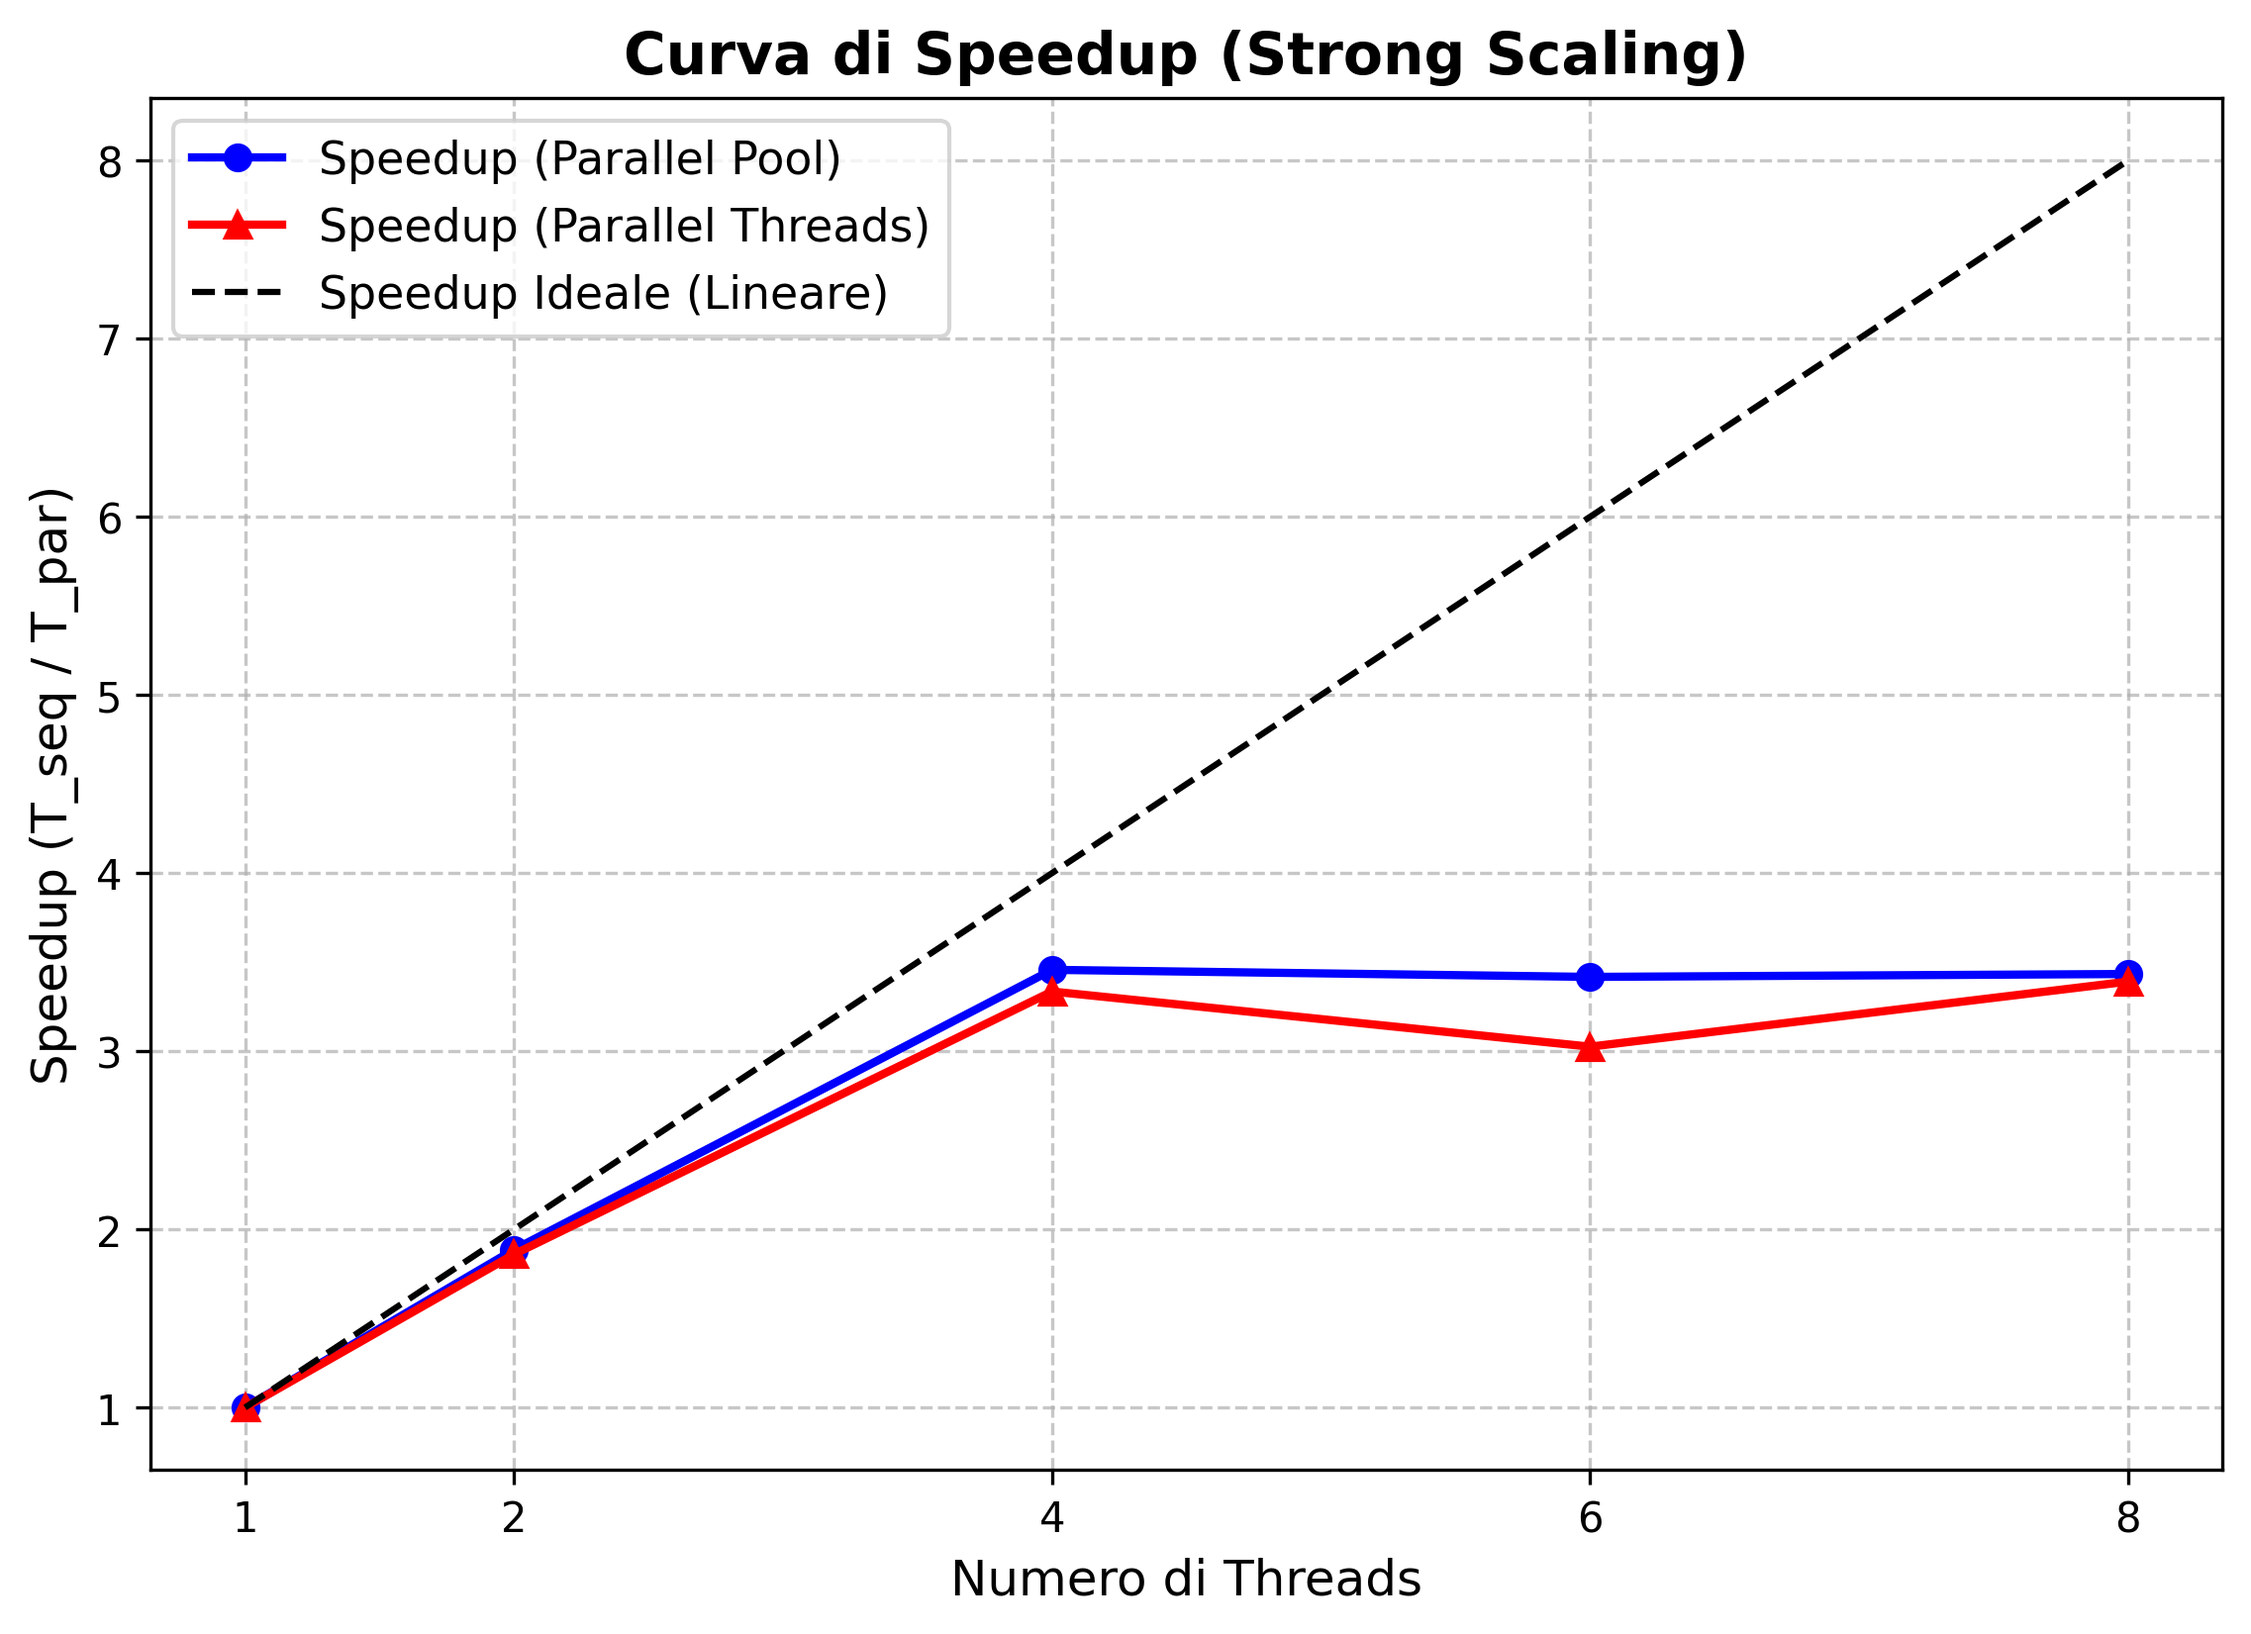
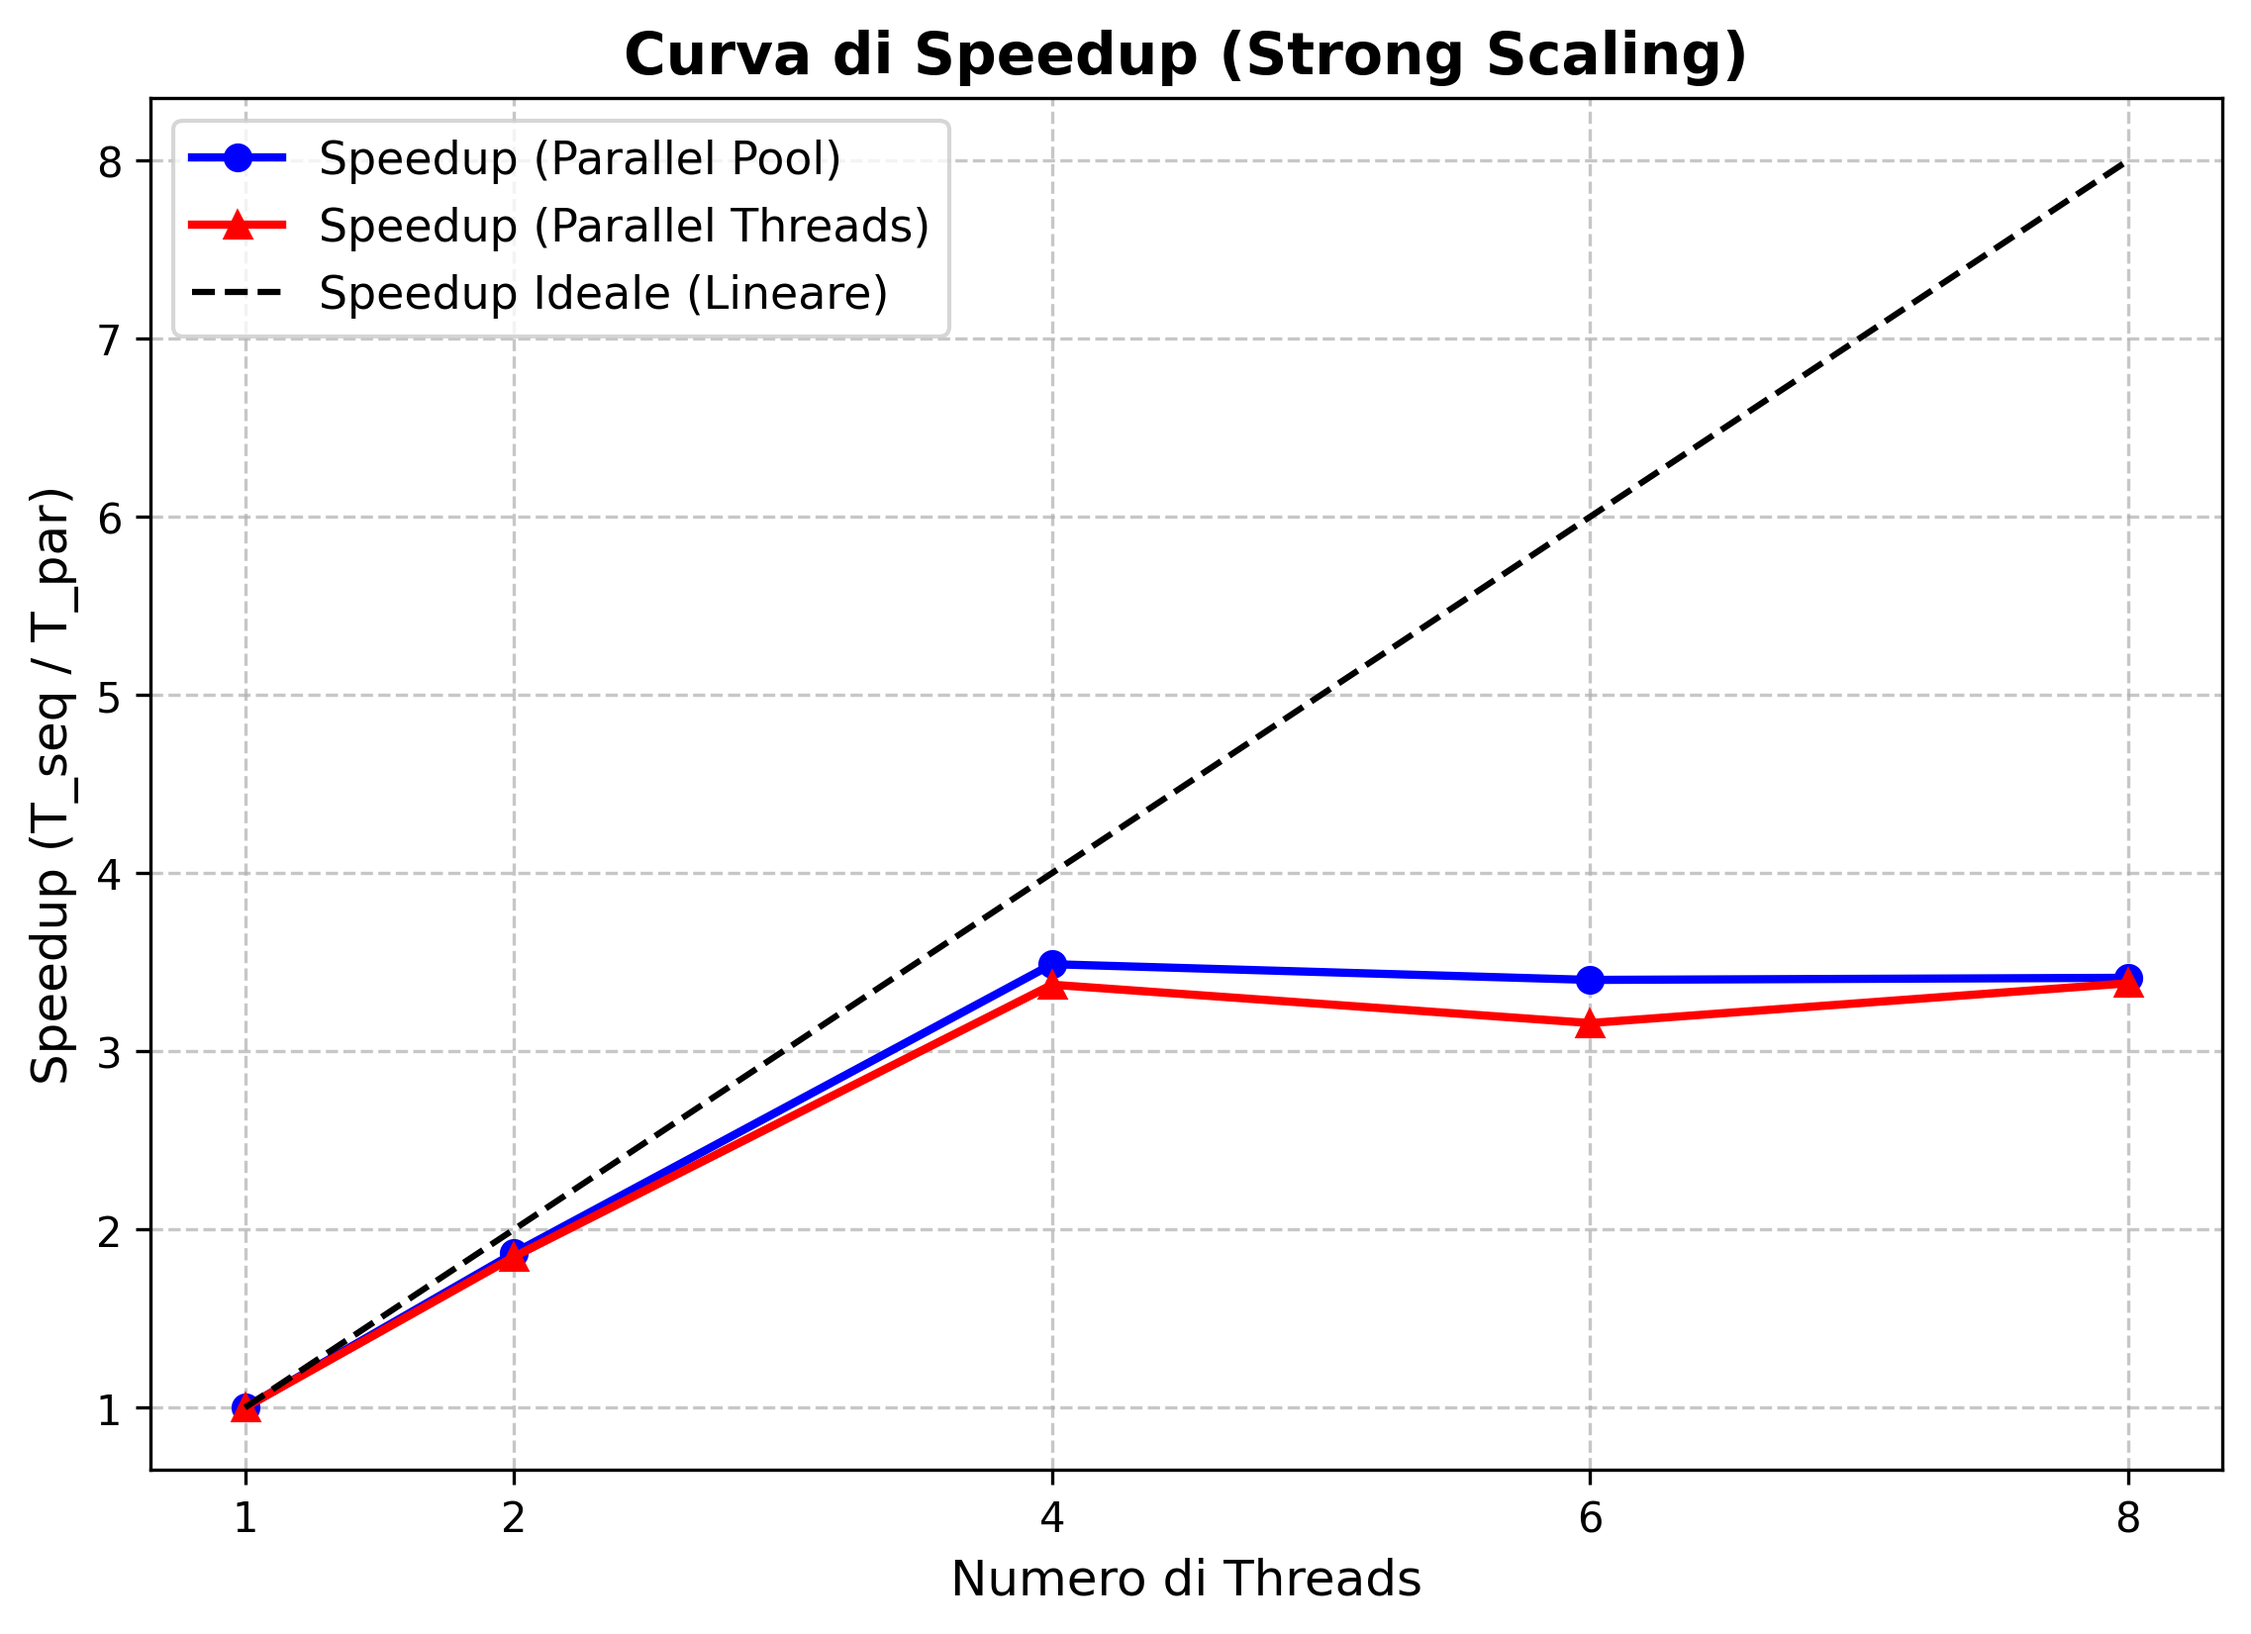
aggiornamento versione Pool

diff --git a/src/password_decryption.py b/src/password_decryption.py
@@ -1,13 +1,13 @@
 import threading
 from passlib.hash import des_crypt
 import random
-from concurrent.futures import ThreadPoolExecutor, wait, FIRST_COMPLETED
+from concurrent.futures import ThreadPoolExecutor, wait, FIRST_COMPLETED, as_completed
 import itertools
 import config
 
 def encrypt_password(password_in_chiaro):
     if len(password_in_chiaro) > 8:
-        raise ValueError("La password non può superare gli 8 caratteri!")
+        raise ValueError("La password non può superare gli 8 caratteri.")
 
     salt = "".join(random.choices(config.CHARSET, k=2))
     hash_criptato = des_crypt.hash(password_in_chiaro, salt=salt)
@@ -45,31 +45,42 @@ def decrypt_password_par_pool(target_hashes, num_workers, chunk_size):
     stop_event = threading.Event()
     passwords_trovate = {}
     total_targets = len(target_hashes)
-    end_list = False
 
     with ThreadPoolExecutor(max_workers=num_workers) as executor:
         futures = set()
 
-        while not stop_event.is_set() and not end_list:
-            for _ in range(num_workers):
-                chunk = list(itertools.islice(iterator, chunk_size))
-                if not chunk:
-                    end_list = True
-                    break
-                futures.add(executor.submit(check_chunk, chunk, target_hashes, stop_event))
+        # Si riempiono il pool con i primi task
+        for _ in range(num_workers):
+            chunk = list(itertools.islice(iterator, chunk_size))
+            if not chunk:
+                break
+            futures.add(executor.submit(check_chunk, chunk, target_hashes, stop_event))
 
-            # Si aspetta che almeno uno dei task sia completato
-            done, futures = wait(futures, return_when=FIRST_COMPLETED)
+        while futures and not stop_event.is_set():
+            # Si aspetta che almeno task finisca
+            done, not_done = wait(futures, return_when=FIRST_COMPLETED)
 
+            # Si analizza i task completati
             for future in done:
                 result = future.result()
                 if result:
                     passwords_trovate.update(result)
-                    # Se abbiamo trovato tutte le password, segnaliamo lo stop e usciamo
+                    # Se trovato tutti i task si termina la ricerca
                     if len(passwords_trovate) >= total_targets:
                         stop_event.set()
                         return passwords_trovate
 
+            # futures correnti con solo quelli non ancora finiti
+            futures = not_done
+
+            # Se non abbiamo finito di cercare, si rimpiazzano i task appena terminati
+            if not stop_event.is_set():
+                for _ in range(len(done)):
+                    chunk = list(itertools.islice(iterator, chunk_size))
+                    if chunk:  # si abilita un nuovo task solo se c'è ancora qualcosa nell'iteratore
+                        futures.add(executor.submit(check_chunk, chunk, target_hashes, stop_event))
+                    else:
+                        break
     return passwords_trovate
 
 def decrypt_password_par_threads(target_hashes, num_workers, chunk_size):
@@ -88,9 +99,9 @@ def decrypt_password_par_threads(target_hashes, num_workers, chunk_size):
             if len(passwords_trovate) >= total_targets:
                 stop_event.set()
 
-    threads: list[threading.Thread] = []
-
     while not stop_event.is_set() and not end_list:
+        threads: list[threading.Thread] = []
+
         for i in range(num_workers):
             chunk = list(itertools.islice(iterator, chunk_size))
             if not chunk:

diff --git a/src/main.py b/src/main.py
@@ -152,6 +152,8 @@ def run_benchmarks():
     passwords = ["01011990", "15082005", "31122026"]
     targets = build_targets(passwords)
 
+    print(f"\nLista di password: {passwords} da trovare.")
+
     file_path = "../results/dump/dump_data.csv"
     dump_data = [['Implementazione', 'Threads', 'Chunk Size', 'Tempo Medio', 'Deviazione Standard']]
 
@@ -182,7 +184,7 @@ def run_benchmarks():
 
 def run_demo():
     print_info_GIL()
-    passwords = ["01011990", "15082005", "31122026"]
+    passwords = ["01011990", "f5082005", "31122026"]
     targets = build_targets(passwords)
     threads = 4
     chunk_size = c.N // (threads * 10)
@@ -192,7 +194,7 @@ def run_demo():
     print("\nSequenziale:")
 
     start = time.perf_counter()
-    passwords_trovate = p.decrypt_passwords(targets)
+    passwords_trovate = 0 # p.decrypt_passwords(targets)
     end = time.perf_counter()
 
     print(f"Passwords trovate: {passwords_trovate}")
@@ -207,11 +209,10 @@ def run_demo():
     print(f"Passwords trovate: {passwords_trovate}")
     print("Tempo di esecuzione: ", end - start)
 
-
     print("\nParallela con thread:")
 
     start = time.perf_counter()
-    passwords_trovate = p.decrypt_password_par_threads(targets, threads, chunk_size)
+    passwords_trovate = 0 # p.decrypt_password_par_threads(targets, threads, chunk_size)
     end = time.perf_counter()
 
     print(f"Passwords trovate: {passwords_trovate}")
